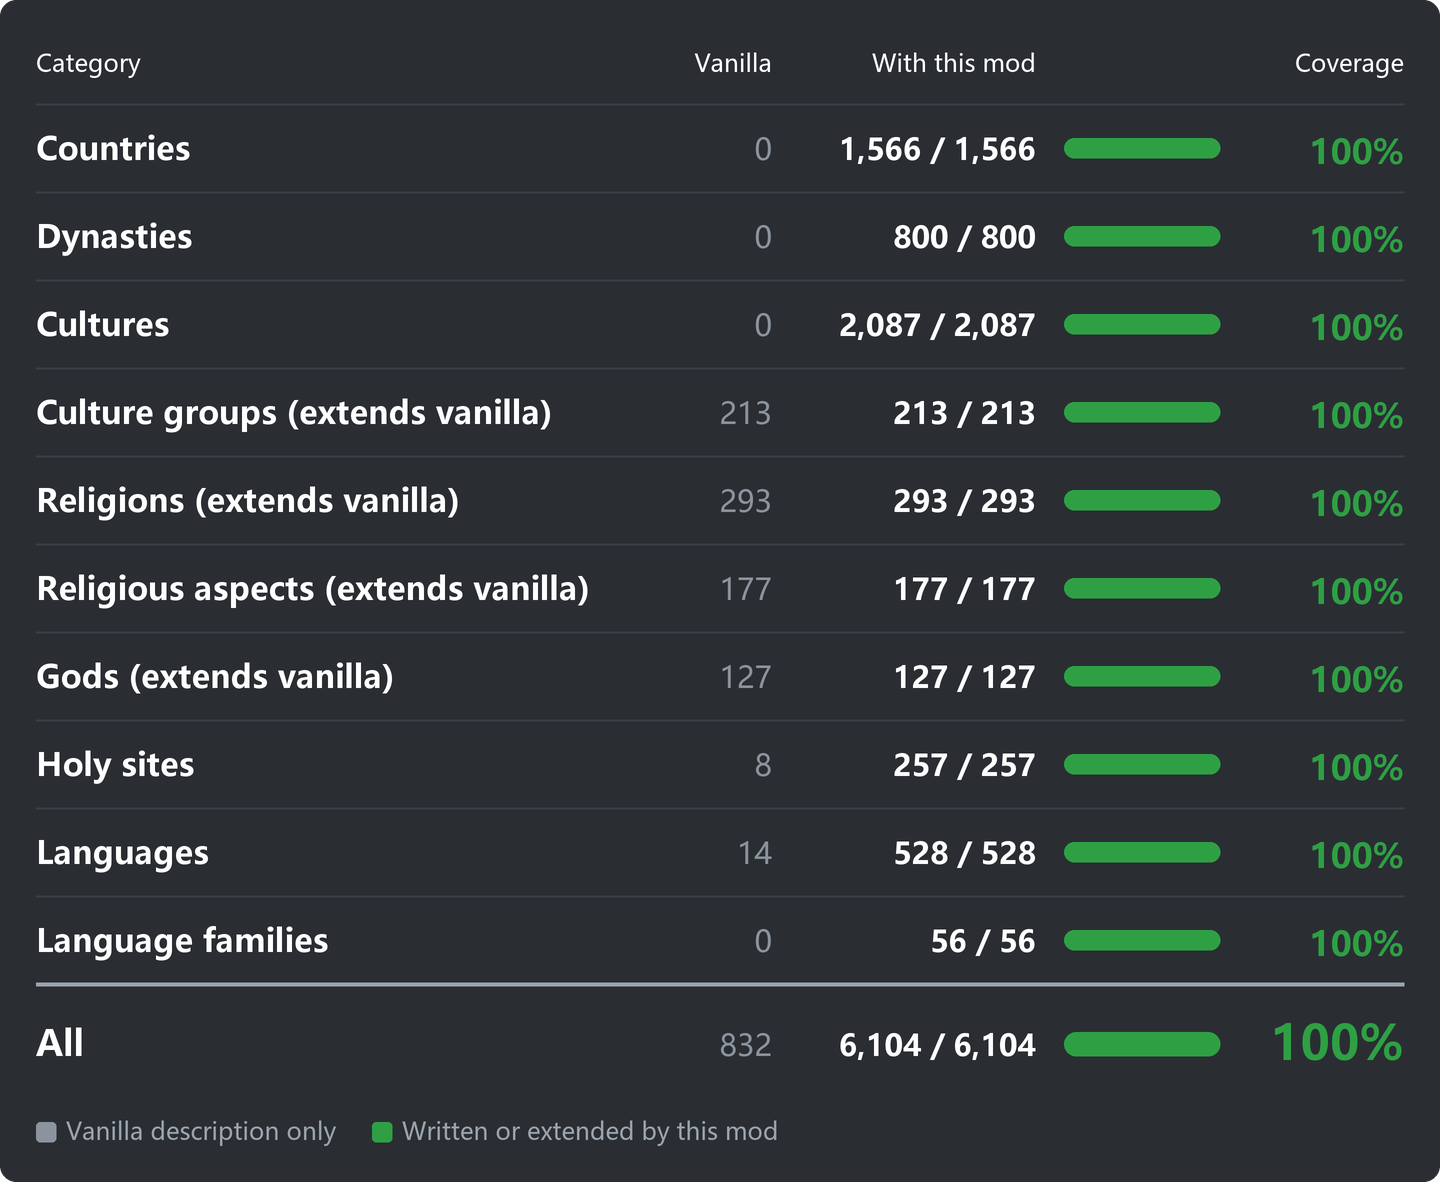
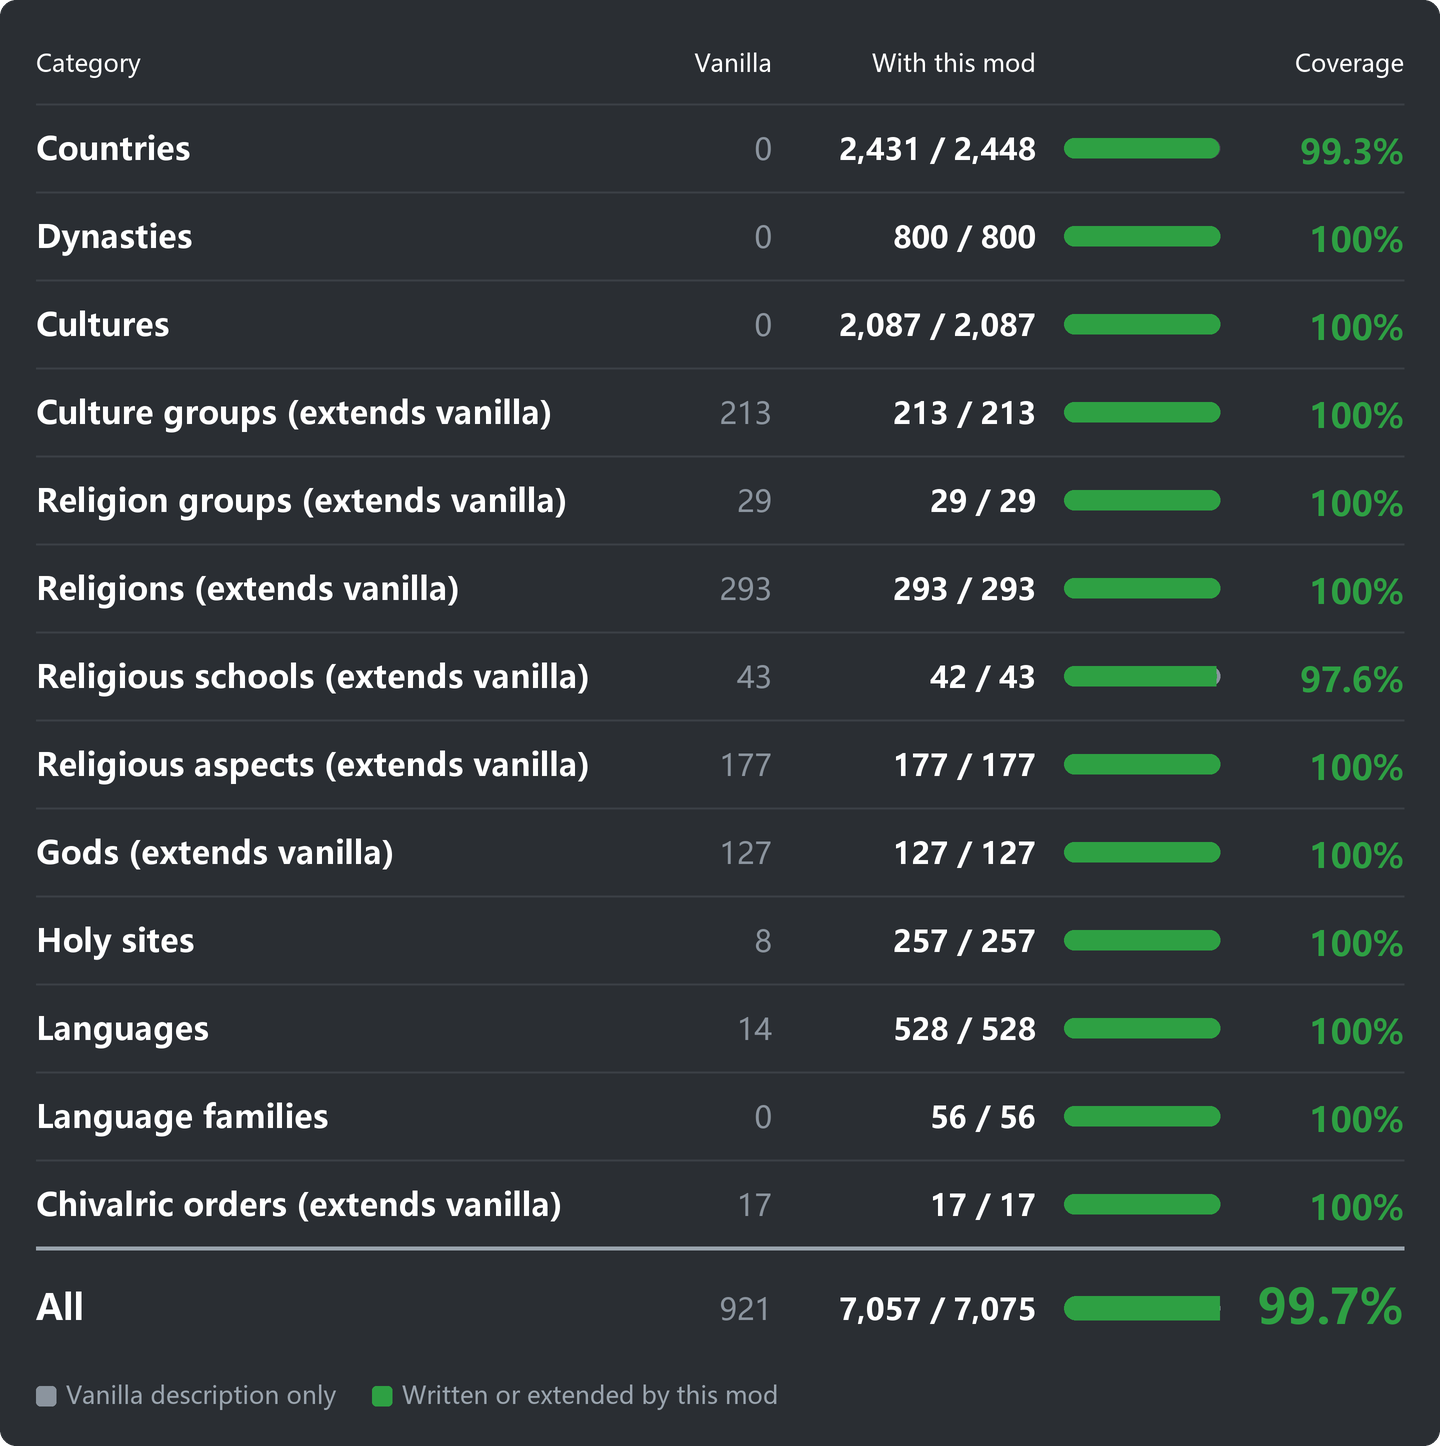
接入宗教组、宗教学派、勋贵骑士团和后起国家：数据 7,057 条，覆盖表重绘，文案和玩家说明改数

diff --git a/workshop/assets/coverage-20261112/render.py b/workshop/assets/coverage-20261112/render.py
@@ -27,6 +27,9 @@ TEXT = {
            'religion': ('Religions (extends vanilla)', None),
            'religious_aspect': ('Religious aspects (extends vanilla)', None),
            'god': ('Gods (extends vanilla)', None),
+           'religion_group': ('Religion groups (extends vanilla)', None),
+           'religious_school': ('Religious schools (extends vanilla)', None),
+           'chivalric_order': ('Chivalric orders (extends vanilla)', None),
            'total': ('All', None),
            'legend': ('Vanilla description only', 'Written or extended by this mod')},
     'zh-CN': {'head': ('类别', '原版', '本模组', '覆盖率'),
@@ -40,6 +43,9 @@ TEXT = {
               'religion': ('宗教（扩展了官方描述）', None),
               'religious_aspect': ('宗教信条（扩展了官方描述）', None),
               'god': ('神祇（扩展了官方描述）', None),
+              'religion_group': ('宗教组（扩展了官方描述）', None),
+              'religious_school': ('宗教学派（扩展了官方描述）', None),
+              'chivalric_order': ('勋贵骑士团（扩展了官方描述）', None),
               'total': ('合计', None),
               'legend': ('仅原版描述', '本模组撰写或补充')},
 }

diff --git a/tools/build.py b/tools/build.py
@@ -40,8 +40,9 @@ CL_FILE = 'in_game/common/customizable_localization/lde_history_entries.txt'
 SPECIAL = set('[]$#"\\')
 VERSION_RE = re.compile(r'[0-9]+\.[0-9]+\.[0-9]+')
 KINDS = ('country', 'culture', 'dynasty', 'holy_site', 'language', 'language_family', 'religion',
-         'culture_group', 'god', 'religious_aspect')
-DESC_KINDS = ('language', 'language_family', 'holy_site', 'religion', 'culture_group', 'god', 'religious_aspect')
+         'culture_group', 'god', 'religious_aspect', 'religion_group', 'religious_school', 'chivalric_order')
+DESC_KINDS = ('language', 'language_family', 'holy_site', 'religion', 'culture_group', 'god', 'religious_aspect',
+              'religion_group', 'religious_school', 'chivalric_order')
 RAW_BAD = set('"\\')   # 原版原文里允许 $引用$、[函数]，但不能有引号、反斜杠（会破坏 yml）
 # 类别 -> (可定制本地化名, 对象类型, 本地化键前缀, 触发条件)
 CUSTOM = {

diff --git a/workshop/player-readme.en.md b/workshop/player-readme.en.md
@@ -1,6 +1,6 @@
 # Descriptions Expanded: Countries, Cultures, Dynasties & More
 
-English and Simplified Chinese descriptions for 6,104 countries, dynasties, cultures, culture groups, religions, religious aspects, gods, holy sites, languages and language families in Europa Universalis V. Hover over one of them; the description is at the bottom of the tooltip. The game language picks English or Chinese. Where the game already has a description, it is kept and the new text follows it as extra paragraphs.
+English and Simplified Chinese descriptions for 7,057 countries, dynasties, cultures, culture groups, religion groups, religions, religious schools, religious aspects, gods, chivalric orders, holy sites, languages and language families in Europa Universalis V. Hover over one of them; the description is at the bottom of the tooltip. The game language picks English or Chinese. Where the game already has a description, it is kept and the new text follows it as extra paragraphs.
 
 Dynasties show their description through the dynasty head, so a dynasty with no living member has none.
 

diff --git a/workshop/player-readme.zh-CN.md b/workshop/player-readme.zh-CN.md
@@ -1,6 +1,6 @@
 # 描述扩展：国家、文化、王朝及更多
 
-为《欧陆风云5》的国家、王朝、文化、文化组、宗教、宗教信条、神祇、圣地、语言和语族补上中英文介绍，共 6,104 条。鼠标悬停在这些对象上，介绍显示在浮窗底部；游戏语言决定显示中文还是英文。原版已有描述的，保留原版描述，新的介绍作为后面的段落接上。
+为《欧陆风云5》的国家、王朝、文化、文化组、宗教组、宗教、宗教学派、宗教信条、神祇、勋贵骑士团、圣地、语言和语族补上中英文介绍，共 7,057 条。鼠标悬停在这些对象上，介绍显示在浮窗底部；游戏语言决定显示中文还是英文。原版已有描述的，保留原版描述，新的介绍作为后面的段落接上。
 
 王朝的介绍经由宗族领袖显示，没有在世成员的王朝不显示。
 
